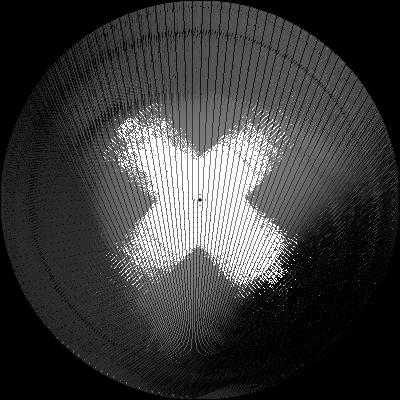
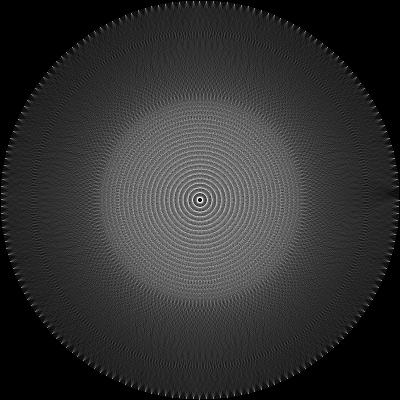
Normalize

diff --git a/Tomograf.py b/Tomograf.py
@@ -101,10 +101,8 @@ def lineReverse(x0,y0, x1,y1 ,imageX, imageY, image, detValue, sinogramReverse):
         x, y = (0, 0)
         for i in range(int(dx+1)):
             if((x0+x)<=imageX and (y0+y)<=imageY):
-                if (sinogramReverse[y0 + y, x0 + x] + detValue <= 1.0):
-                    sinogramReverse[x0 + x, y0 + y] = (sinogramReverse[y0 + y, x0 + x] + detValue)/2
-                else:
-                    sinogramReverse[x0 + x, y0 + y] = 1.0
+                sinogramReverse[y0 + y,x0 + x ] = (sinogramReverse[y0 + y,x0 + x ] + detValue)
+
             if d > 0:
                 d += delta_B
                 x += inc_x
@@ -122,10 +120,8 @@ def lineReverse(x0,y0, x1,y1 ,imageX, imageY, image, detValue, sinogramReverse):
         x, y = (0, 0)
         for i in range(dy+1):
             if ((x0 + x )<= imageX and (y0 + y )<= imageY):
-                if(sinogramReverse[y0 + y, x0 + x] + detValue<=1.0):
-                    sinogramReverse[x0 + x, y0 + y] = (sinogramReverse[y0 + y, x0 + x] + detValue)/2
-                else:
-                    sinogramReverse[x0 + x, y0 + y] =1.0
+                sinogramReverse[y0 + y,x0 + x ] = (sinogramReverse[ y0 + y,x0 + x ] + detValue)
+
             if d > 0:
                 d += delta_B
                 x += inc_x
@@ -169,6 +165,19 @@ def makeSinogramReverse(sinogram, numberOfDet, numberOfRotation, detectorsList, 
     for i in range(numberOfRotation):
         for j in range(numberOfDet):
             lineReverse(emitersList[i][0], emitersList[i][1], detectorsList[i][j][0], detectorsList[i][j][1],x, y,image, sinogram[i][j], sinogramReverse )
+
+    #finding max pixel
+    maxx=0.0
+    for i in range(len(sinogramReverse)):
+        for j in range (len(sinogramReverse[1])):
+            if(sinogramReverse[i][j])>maxx:
+                maxx = sinogramReverse[i][j]
+
+    #normalizing
+    for i in range(len(sinogramReverse)):
+        for j in range(len(sinogramReverse[1])):
+            sinogramReverse[i][j]=sinogramReverse[i][j]/maxx
+
 
 
 
